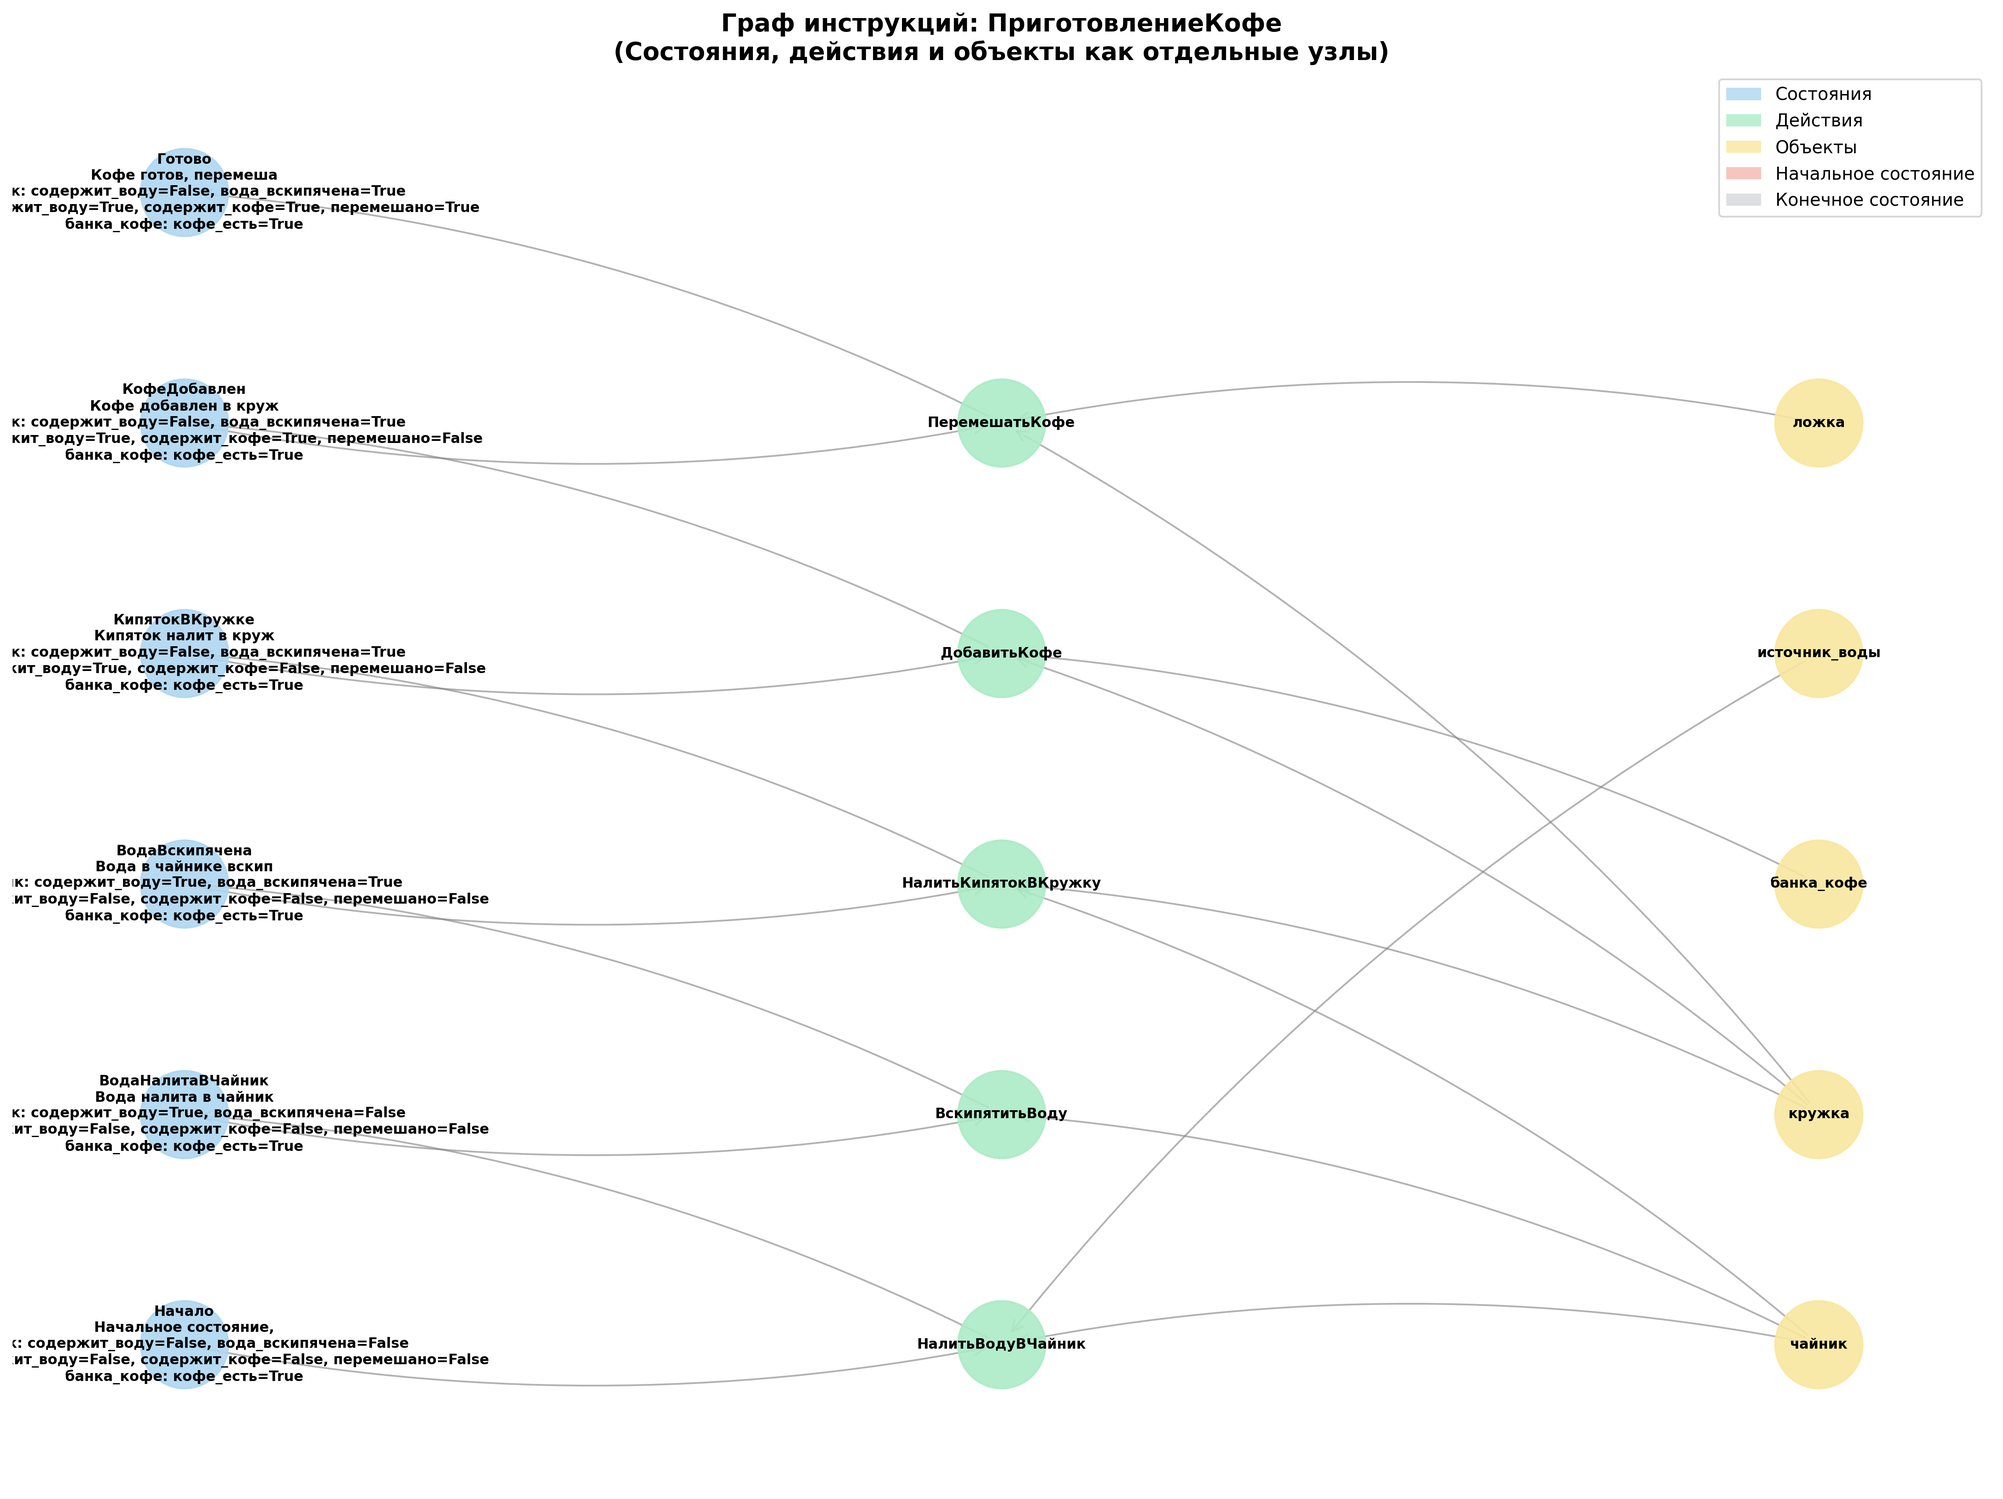
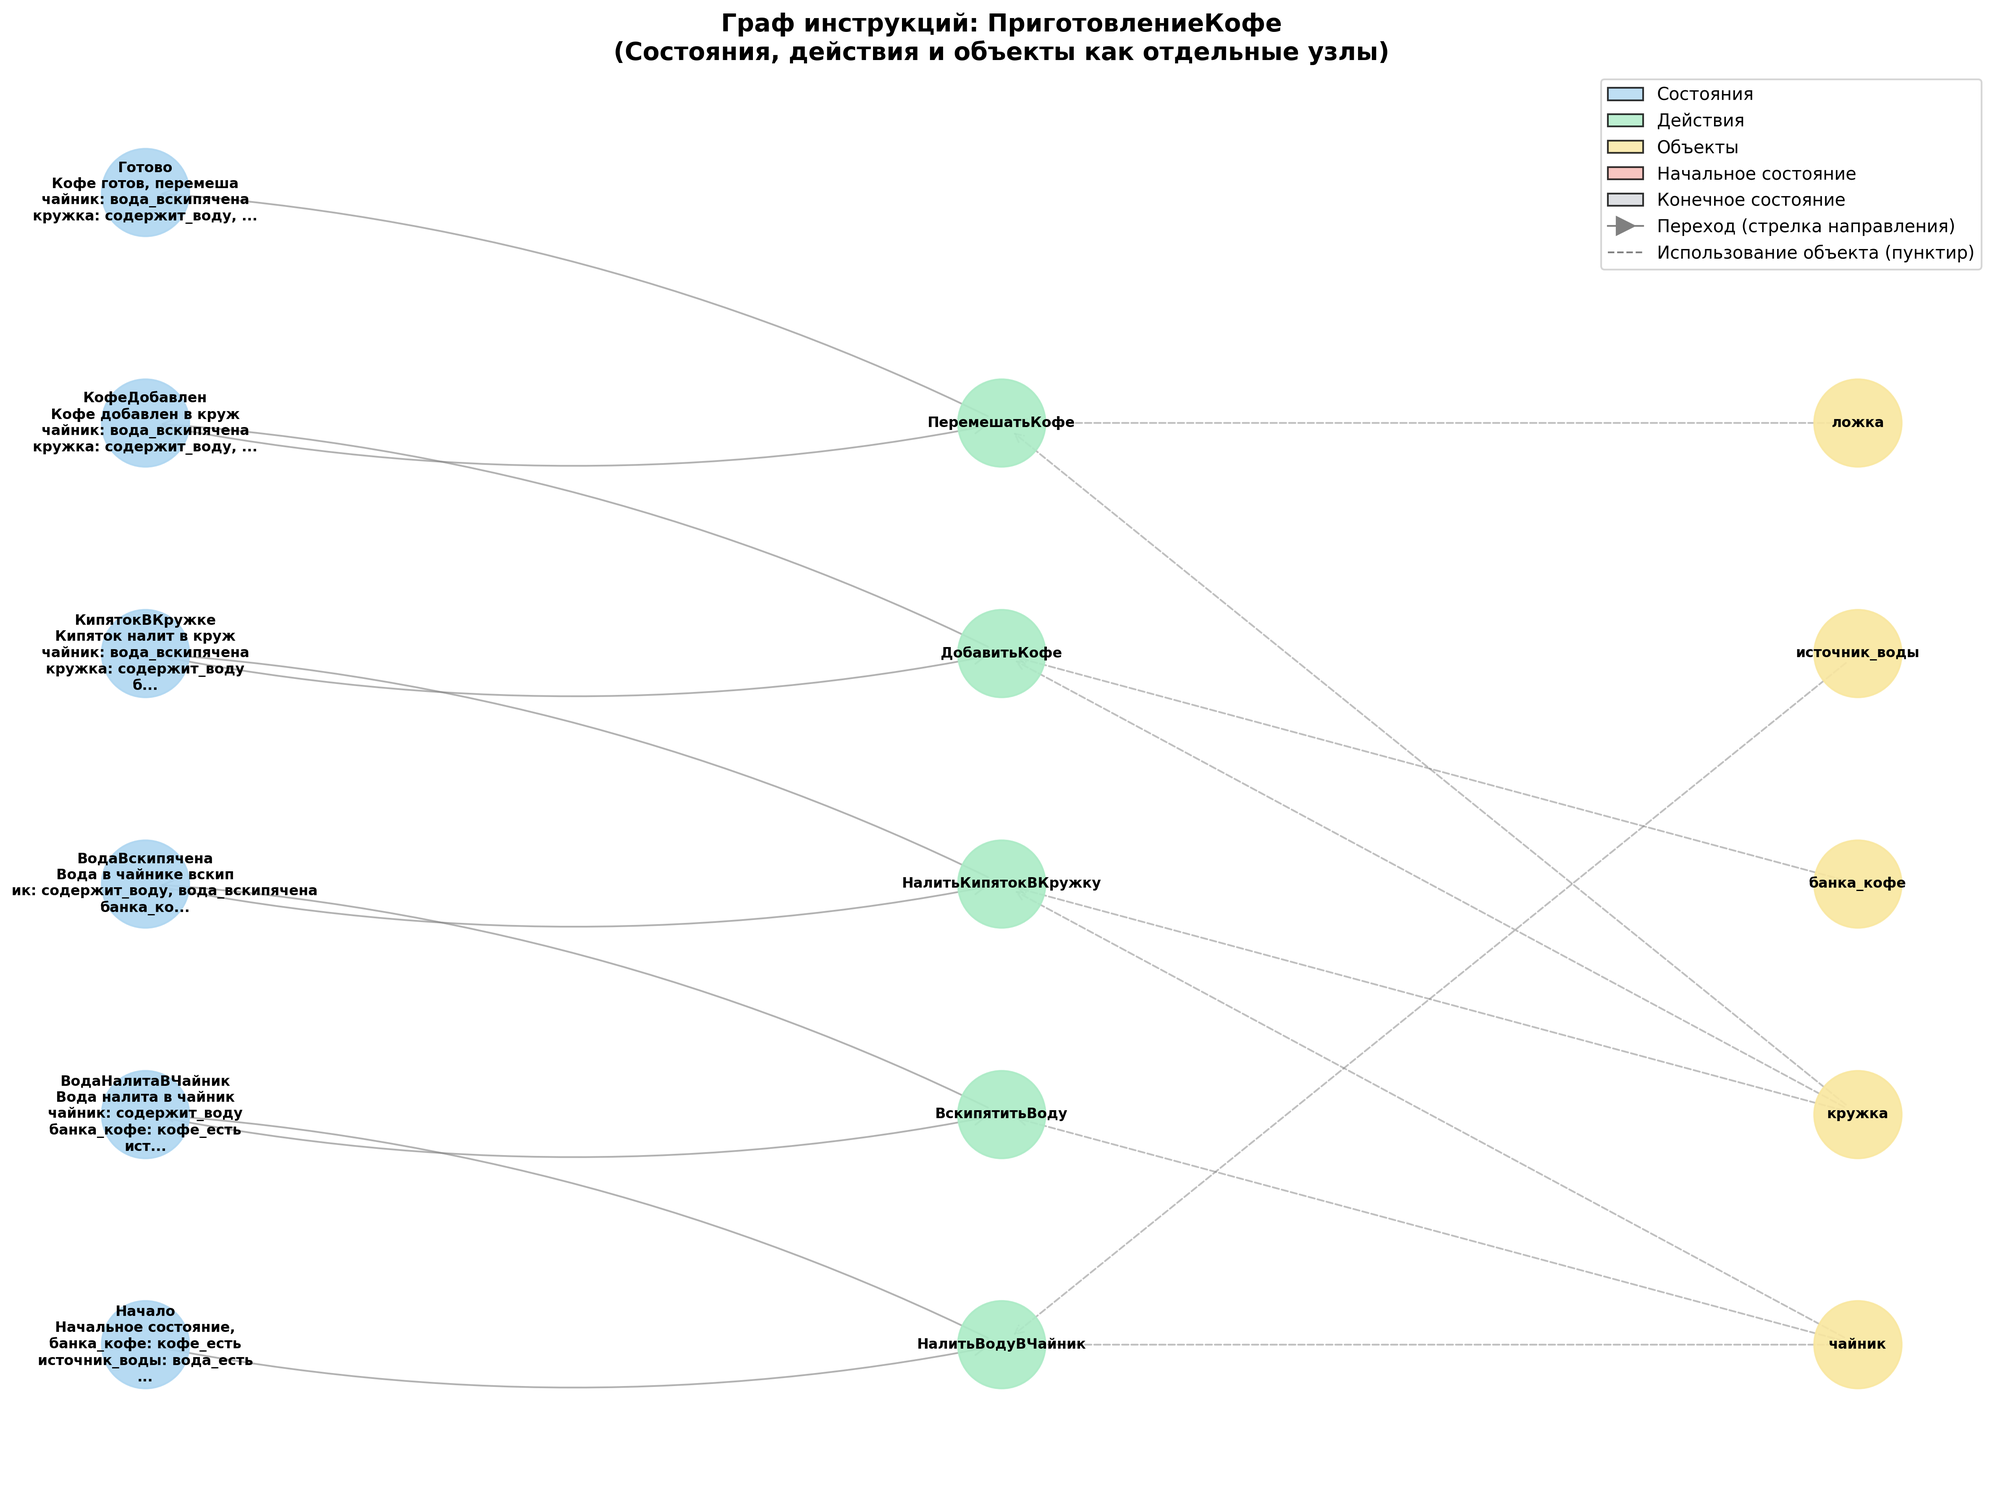
make graph better

diff --git a/graph.py b/graph.py
@@ -116,7 +116,6 @@ class InstructionGraph:
         
         graph = cls(data.get('name', 'InstructionGraph'))
         
-        # Загружаем объекты (без состояния, только имена)
         for obj_data in data.get('objects', []):
             obj = Object(
                 name=obj_data['name'],
@@ -124,7 +123,6 @@ class InstructionGraph:
             )
             graph.add_object(obj)
         
-        # Загружаем состояния с objects_state
         for state_data in data.get('states', []):
             state = State(
                 id=state_data['id'],
@@ -135,7 +133,6 @@ class InstructionGraph:
             )
             graph.add_state(state)
         
-        # Загружаем действия
         for action_data in data.get('actions', []):
             action = Action(
                 id=action_data['id'],
@@ -153,7 +150,6 @@ class InstructionGraph:
             action._postcondition_funcs = cls._compile_conditions(action.postconditions, graph)
             graph.add_action(action)
         
-        # Загружаем переходы
         for trans_data in data.get('transitions', []):
             graph.add_transition(
                 trans_data['from'],
@@ -178,7 +174,6 @@ class InstructionGraph:
                 
                 def make_check(obj_name, prop_name, operator, value):
                     def check(context):
-                        # Получаем состояние объектов из текущего состояния графа
                         current_state_id = context['current_state']
                         current_state = graph.states.get(current_state_id)
                         if not current_state:
@@ -214,7 +209,6 @@ class InstructionGraph:
                 
                 def make_setter(obj_name, prop_name, value):
                     def setter(context):
-                        # Изменяем objects_state в следующем состоянии
                         if 'next_state_id' in context:
                             next_state = graph.states.get(context['next_state_id'])
                             if next_state:
@@ -257,7 +251,6 @@ class InstructionGraph:
                 def make_printer(message_template):
                     def printer(context):
                         message = message_template
-                        # Подстановка переменных из objects_state текущего состояния
                         current_state_id = context['current_state']
                         current_state = graph.states.get(current_state_id)
                         if current_state:
@@ -367,15 +360,33 @@ class InstructionGraph:
         return context
     
     def _update_context(self, context: Dict[str, Any], next_state_id: str) -> None:
-        # Обновляем объекты (только имена, состояние хранится в state)
         if 'objects' in context:
             self.objects.update(context['objects'])
     
     def get_current_objects_state(self) -> Dict[str, Dict[str, Any]]:
-        """Получить состояние объектов в текущем состоянии графа"""
         if self.current_state_id and self.current_state_id in self.states:
             return self.states[self.current_state_id].objects_state
         return {}
+    
+    def format_objects_state(self, objects_state: Dict[str, Dict[str, Any]]) -> str:
+        if not objects_state:
+            return ""
+        
+        lines = []
+        for obj_name, obj_props in objects_state.items():
+            true_props = []
+            for prop_name, prop_value in obj_props.items():
+                if prop_value is True:
+                    true_props.append(prop_name)
+                elif prop_value is not False and prop_value is not None:
+                    true_props.append(f"{prop_name}={prop_value}")
+            
+            if true_props:
+                lines.append(f"      {obj_name}: {', '.join(true_props)}")
+            else:
+                lines.append(f"      {obj_name}: (нет активных свойств)")
+        
+        return "\n".join(lines)
     
     def step_by_step_mode(self):
         print("\n" + "="*70)
@@ -396,12 +407,10 @@ class InstructionGraph:
             print(f"   Описание: {current_state.description}")
             print(f"   Тип: {current_state.state_type.to_rus()}")
             
-            # Показываем состояние объектов
             if current_state.objects_state:
                 print("\n   Состояние объектов:")
-                for obj_name, obj_props in current_state.objects_state.items():
-                    props_str = ", ".join(f"{k}={v}" for k, v in obj_props.items())
-                    print(f"      {obj_name}: {props_str}")
+                formatted = self.format_objects_state(current_state.objects_state)
+                print(formatted)
             
             if current_state.state_type in [StateType.FINAL, StateType.ERROR]:
                 print(f"\n{'[ДОСТИГНУТО КОНЕЧНОЕ СОСТОЯНИЕ]' if current_state.state_type == StateType.FINAL else '[ДОСТИГНУТО СОСТОЯНИЕ ОШИБКИ]'}")
@@ -492,17 +501,15 @@ class InstructionGraph:
         print(f"   Всего состояний: {len(self.states)}")
         print(f"   Всего объектов: {len(self.objects)}")
         
-        # Показываем состояние объектов из текущего состояния
         objects_state = self.get_current_objects_state()
         if objects_state:
             print(f"\n[СОСТОЯНИЕ ОБЪЕКТОВ В ТЕКУЩЕМ СОСТОЯНИИ]")
-            for obj_name, obj_props in objects_state.items():
-                props_str = ", ".join(f"{k}={v}" for k, v in obj_props.items())
-                print(f"   {obj_name}: {props_str}")
+            formatted = self.format_objects_state(objects_state)
+            print(formatted)
     
     def visualize(self, filename: str = "instruction_graph") -> None:
         try:
-            G = nx.MultiDiGraph()
+            G = nx.DiGraph()
             
             # Цвета для разных типов узлов
             state_color = '#AED6F1'      # светлый синий
@@ -520,13 +527,22 @@ class InstructionGraph:
                 else:
                     color = state_color
                 
-                # Формируем подпись с состоянием объектов
+                # Формируем подпись с состоянием объектов (только True значения)
                 obj_lines = []
                 for obj_name, obj_props in state.objects_state.items():
-                    props = ", ".join(f"{k}={v}" for k, v in obj_props.items())
-                    obj_lines.append(f"{obj_name}: {props}")
-                obj_text = "\n".join(obj_lines[:3])  # не более 3 строк
-                label = f"{state.name}\n{state.description[:20]}\n{obj_text}" if obj_text else f"{state.name}\n{state.description[:20]}"
+                    true_props = []
+                    for prop_name, prop_value in obj_props.items():
+                        if prop_value is True:
+                            true_props.append(prop_name)
+                        elif prop_value is not False and prop_value is not None:
+                            true_props.append(f"{prop_name}={prop_value}")
+                    if true_props:
+                        obj_lines.append(f"{obj_name}: {', '.join(true_props)}")
+                
+                obj_text = "\n".join(obj_lines[:3])
+                if obj_text and len(obj_text) > 50:
+                    obj_text = obj_text[:47] + "..."
+                label = f"{state.name}\n{state.description[:20]}" + (f"\n{obj_text}" if obj_text else "")
                 
                 G.add_node(f"state_{state_id}", 
                           label=label,
@@ -547,14 +563,15 @@ class InstructionGraph:
                           type='object',
                           color=object_color)
             
-            # Добавляем ребра: состояние -> действие -> состояние
+            # Добавляем ребра: состояние -> действие (стрелка)
+            # и действие -> состояние (стрелка)
             for (from_state, action_id), to_state in self.transitions.items():
                 action = self.actions.get(action_id)
                 if action:
                     G.add_edge(f"state_{from_state}", f"action_{action_id}")
                     G.add_edge(f"action_{action_id}", f"state_{to_state}")
             
-            # Добавляем связи объектов с действиями (required)
+            # Добавляем связи объектов с действиями (required) - пунктирные стрелки
             for action_id, action in self.actions.items():
                 for obj_name in action.required_objects:
                     G.add_edge(f"object_{obj_name}", f"action_{action_id}", style='dashed')
@@ -589,23 +606,41 @@ class InstructionGraph:
                                          node_color=color, node_size=2500,
                                          alpha=0.9)
             
-            # Рисуем ребра
-            nx.draw_networkx_edges(G, pos, edge_color='gray',
-                                 arrows=True, arrowsize=15, arrowstyle='->',
-                                 connectionstyle='arc3,rad=0.1', alpha=0.6)
+            # Рисуем ребра с направлением (стрелки)
+            # Разделяем обычные и пунктирные ребра
+            solid_edges = [(u, v) for u, v, d in G.edges(data=True) if d.get('style') != 'dashed']
+            dashed_edges = [(u, v) for u, v, d in G.edges(data=True) if d.get('style') == 'dashed']
+            
+            if solid_edges:
+                nx.draw_networkx_edges(G, pos, edgelist=solid_edges,
+                                     edge_color='gray', arrows=True, 
+                                     arrowsize=15, arrowstyle='->',
+                                     connectionstyle='arc3,rad=0.1', alpha=0.6)
+            
+            if dashed_edges:
+                nx.draw_networkx_edges(G, pos, edgelist=dashed_edges,
+                                     edge_color='gray', arrows=True,
+                                     arrowsize=12, arrowstyle='->',
+                                     style='dashed', alpha=0.5)
             
             # Рисуем подписи
             labels = nx.get_node_attributes(G, 'label')
             nx.draw_networkx_labels(G, pos, labels, font_size=8, font_weight='bold')
             
-            # Легенда
+            # Легенда - только информация о типах узлов и стрелках
             from matplotlib.patches import Patch
+            from matplotlib.lines import Line2D
+            
             legend_elements = [
-                Patch(facecolor=state_color, alpha=0.8, label='Состояния'),
-                Patch(facecolor=action_color, alpha=0.8, label='Действия'),
-                Patch(facecolor=object_color, alpha=0.8, label='Объекты'),
-                Patch(facecolor=initial_color, alpha=0.8, label='Начальное состояние'),
-                Patch(facecolor=final_color, alpha=0.8, label='Конечное состояние')
+                Patch(facecolor=state_color, alpha=0.8, edgecolor='black', label='Состояния'),
+                Patch(facecolor=action_color, alpha=0.8, edgecolor='black', label='Действия'),
+                Patch(facecolor=object_color, alpha=0.8, edgecolor='black', label='Объекты'),
+                Patch(facecolor=initial_color, alpha=0.8, edgecolor='black', label='Начальное состояние'),
+                Patch(facecolor=final_color, alpha=0.8, edgecolor='black', label='Конечное состояние'),
+                Line2D([0], [0], color='gray', marker='>', markersize=10, 
+                       linestyle='-', linewidth=1, label='Переход (стрелка направления)'),
+                Line2D([0], [0], color='gray', linestyle='--', linewidth=1,
+                       label='Использование объекта (пунктир)')
             ]
             plt.legend(handles=legend_elements, loc='upper right', fontsize=10)
             
@@ -635,11 +670,18 @@ class InstructionGraph:
             current_marker = " <- ТЕКУЩЕЕ" if state_id == self.current_state_id else ""
             print(f"   {type_marker} {state.name} [{state_id}]: {state.description}{current_marker}")
             
-            # Показываем состояние объектов
             if state.objects_state:
                 for obj_name, obj_props in state.objects_state.items():
-                    props_str = ", ".join(f"{k}={v}" for k, v in obj_props.items())
-                    print(f"        - {obj_name}: {props_str}")
+                    true_props = []
+                    for prop_name, prop_value in obj_props.items():
+                        if prop_value is True:
+                            true_props.append(prop_name)
+                        elif prop_value is not False and prop_value is not None:
+                            true_props.append(f"{prop_name}={prop_value}")
+                    if true_props:
+                        print(f"        - {obj_name}: {', '.join(true_props)}")
+                    else:
+                        print(f"        - {obj_name}: (нет активных свойств)")
         
         print("\n[ДЕЙСТВИЯ]")
         for action_id, action in self.actions.items():
@@ -739,7 +781,6 @@ def main():
     result_file = json_file.replace('.json', '_result.json')
     print(f"\nСохранение результатов в {result_file}...")
     
-    # Сохраняем финальное состояние объектов
     final_objects_state = graph.get_current_objects_state()
     
     with open(result_file, 'w', encoding='utf-8') as f:
